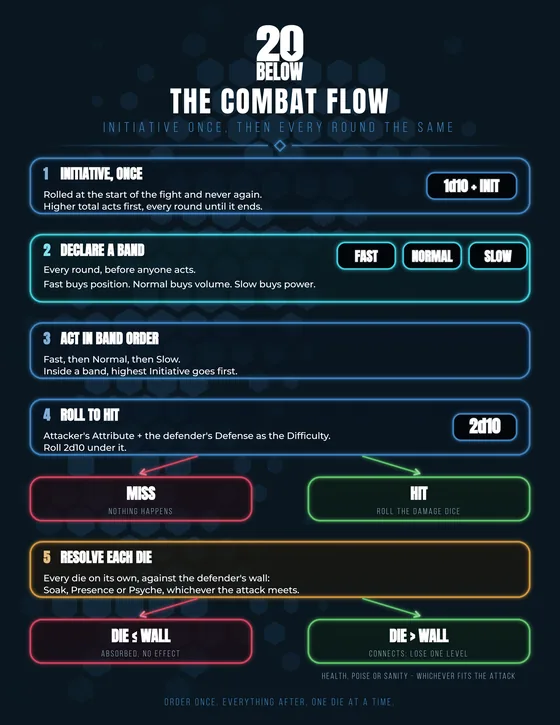
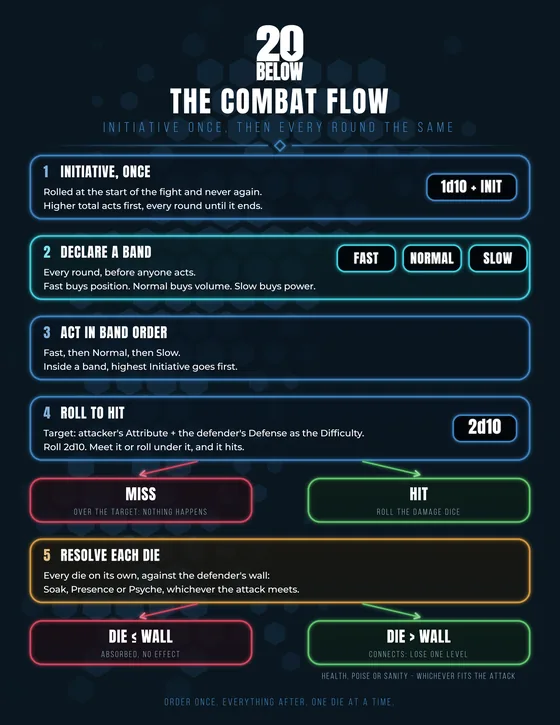
Portfolio: fix Louis Leboeuf's name; clearer combat flow sheet
The sheet drops a synthetic bold that smeared its Anton headings, gives
each panel room below its second line, and states the to-hit rule as
the book does: meet the target or roll under it.

Changed region(s): [[0.0304, 0.2124, 0.9714, 0.9407]]

diff --git a/docs/case-study-ai-workflow.html b/docs/case-study-ai-workflow.html
@@ -108,7 +108,7 @@
   <table class="team">
     <tr><td>Communications</td><td>Kit Foxglove</td></tr>
     <tr><td>Language</td><td>Rilla Scarberry</td></tr>
-    <tr><td>Engineering</td><td>Louis Leboef</td></tr>
+    <tr><td>Engineering</td><td>Louis Leboeuf</td></tr>
     <tr><td>Web Development Consultant</td><td>Dillon Wyatt</td></tr>
     <tr><td>Game Design</td><td>George Szabo, Sean Beatty, Jordan Sorrick, Ty Irons</td></tr>
     <tr><td>Playtesting</td><td>Seven playtesters, uncredited by request</td></tr>
